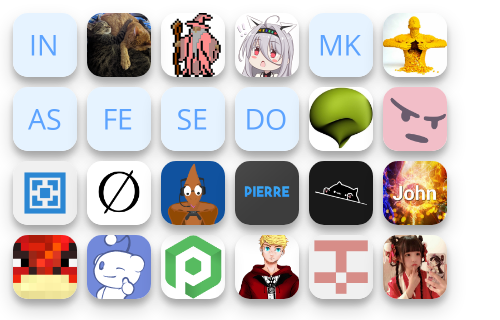
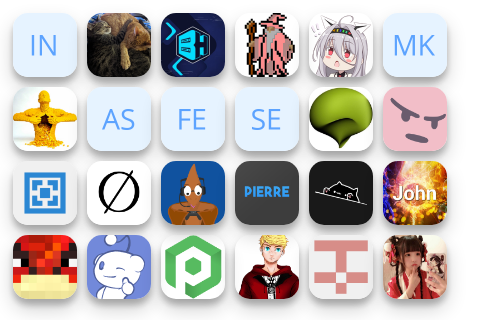
Sponsor Update

diff --git a/sponsors.html b/sponsors.html
@@ -1,7 +1,7 @@
 <html lang="en" style="height: 320px;width: 500px">
     <body>
     <ul style="margin: 0;padding: 0;list-style: none;">
-        <li style="display: inline"><img src='https://images.opencollective.com/incognito-6605083f/avatar.png' alt='Incognito' title='Incognito' onerror='this.src="https://opencollective.com/static/images/default-guest-logo.svg"' style="height: 64px;width: 64px;margin: 5px;border-radius: 15px;box-shadow: 0 10px 20px rgba(0,0,0,0.19), 0 6px 6px rgba(0,0,0,0.23);"/></li><li style="display: inline"><img src='https://images.opencollective.com/kyle-wood/57ef452/avatar.png' alt='Kyle Wood' title='Kyle Wood' onerror='this.src="https://opencollective.com/static/images/default-guest-logo.svg"' style="height: 64px;width: 64px;margin: 5px;border-radius: 15px;box-shadow: 0 10px 20px rgba(0,0,0,0.19), 0 6px 6px rgba(0,0,0,0.23);"/></li><li style="display: inline"><img src='https://images.opencollective.com/notmyfault/8026388/avatar.png' alt='NotMyFault' title='NotMyFault' onerror='this.src="https://opencollective.com/static/images/default-guest-logo.svg"' style="height: 64px;width: 64px;margin: 5px;border-radius: 15px;box-shadow: 0 10px 20px rgba(0,0,0,0.19), 0 6px 6px rgba(0,0,0,0.23);"/></li><li style="display: inline"><img src='https://images.opencollective.com/paper-chan/21d649c/avatar.png' alt='Paper Chan' title='Paper Chan' onerror='this.src="https://opencollective.com/static/images/default-guest-logo.svg"' style="height: 64px;width: 64px;margin: 5px;border-radius: 15px;box-shadow: 0 10px 20px rgba(0,0,0,0.19), 0 6px 6px rgba(0,0,0,0.23);"/></li><li style="display: inline"><img src='https://images.opencollective.com/guest-e5424b5d/avatar.png' alt='Max Klug' title='Max Klug' onerror='this.src="https://opencollective.com/static/images/default-guest-logo.svg"' style="height: 64px;width: 64px;margin: 5px;border-radius: 15px;box-shadow: 0 10px 20px rgba(0,0,0,0.19), 0 6px 6px rgba(0,0,0,0.23);"/></li><li style="display: inline"><img src='https://images.opencollective.com/minidigger/d330b74/avatar.png' alt='MiniDigger | Martin' title='MiniDigger | Martin' onerror='this.src="https://opencollective.com/static/images/default-guest-logo.svg"' style="height: 64px;width: 64px;margin: 5px;border-radius: 15px;box-shadow: 0 10px 20px rgba(0,0,0,0.19), 0 6px 6px rgba(0,0,0,0.23);"/></li><li style="display: inline"><img src='https://images.opencollective.com/andrew-steinborn/avatar.png' alt='Andrew Steinborn' title='Andrew Steinborn' onerror='this.src="https://opencollective.com/static/images/default-guest-logo.svg"' style="height: 64px;width: 64px;margin: 5px;border-radius: 15px;box-shadow: 0 10px 20px rgba(0,0,0,0.19), 0 6px 6px rgba(0,0,0,0.23);"/></li><li style="display: inline"><img src='https://images.opencollective.com/guest-75cfb38d/avatar.png' alt='fergydanny' title='fergydanny' onerror='this.src="https://opencollective.com/static/images/default-guest-logo.svg"' style="height: 64px;width: 64px;margin: 5px;border-radius: 15px;box-shadow: 0 10px 20px rgba(0,0,0,0.19), 0 6px 6px rgba(0,0,0,0.23);"/></li><li style="display: inline"><img src='https://images.opencollective.com/guest-fb82f199/avatar.png' alt='Selamderen' title='Selamderen' onerror='this.src="https://opencollective.com/static/images/default-guest-logo.svg"' style="height: 64px;width: 64px;margin: 5px;border-radius: 15px;box-shadow: 0 10px 20px rgba(0,0,0,0.19), 0 6px 6px rgba(0,0,0,0.23);"/></li><li style="display: inline"><img src='https://images.opencollective.com/guest-0d13e05a/avatar.png' alt='Dragonis Omega' title='Dragonis Omega' onerror='this.src="https://opencollective.com/static/images/default-guest-logo.svg"' style="height: 64px;width: 64px;margin: 5px;border-radius: 15px;box-shadow: 0 10px 20px rgba(0,0,0,0.19), 0 6px 6px rgba(0,0,0,0.23);"/></li><li style="display: inline"><img src='https://avatars.githubusercontent.com/u/181668?v=4' alt='mbax' title='mbax' onerror='this.src="https://opencollective.com/static/images/default-guest-logo.svg"' style="height: 64px;width: 64px;margin: 5px;border-radius: 15px;box-shadow: 0 10px 20px rgba(0,0,0,0.19), 0 6px 6px rgba(0,0,0,0.23);"/></li><li style="display: inline"><img src='https://avatars.githubusercontent.com/u/7191851?v=4' alt='sweepyoface' title='sweepyoface' onerror='this.src="https://opencollective.com/static/images/default-guest-logo.svg"' style="height: 64px;width: 64px;margin: 5px;border-radius: 15px;box-shadow: 0 10px 20px rgba(0,0,0,0.19), 0 6px 6px rgba(0,0,0,0.23);"/></li><li style="display: inline"><img src='https://avatars.githubusercontent.com/u/10004025?v=4' alt='aternosorg' title='aternosorg' onerror='this.src="https://opencollective.com/static/images/default-guest-logo.svg"' style="height: 64px;width: 64px;margin: 5px;border-radius: 15px;box-shadow: 0 10px 20px rgba(0,0,0,0.19), 0 6px 6px rgba(0,0,0,0.23);"/></li><li style="display: inline"><img src='https://avatars.githubusercontent.com/u/13875753?u=6e3a6da4e2af646471f846dc618c251b00b58d9c' alt='LMBishop' title='LMBishop' onerror='this.src="https://opencollective.com/static/images/default-guest-logo.svg"' style="height: 64px;width: 64px;margin: 5px;border-radius: 15px;box-shadow: 0 10px 20px rgba(0,0,0,0.19), 0 6px 6px rgba(0,0,0,0.23);"/></li><li style="display: inline"><img src='https://avatars.githubusercontent.com/u/16179146?v=4' alt='pterodactyl' title='pterodactyl' onerror='this.src="https://opencollective.com/static/images/default-guest-logo.svg"' style="height: 64px;width: 64px;margin: 5px;border-radius: 15px;box-shadow: 0 10px 20px rgba(0,0,0,0.19), 0 6px 6px rgba(0,0,0,0.23);"/></li><li style="display: inline"><img src='https://avatars.githubusercontent.com/u/27054324?u=bb7337fe6921d0d732fa56b4089366e721987ef1' alt='PierreSchwang' title='PierreSchwang' onerror='this.src="https://opencollective.com/static/images/default-guest-logo.svg"' style="height: 64px;width: 64px;margin: 5px;border-radius: 15px;box-shadow: 0 10px 20px rgba(0,0,0,0.19), 0 6px 6px rgba(0,0,0,0.23);"/></li><li style="display: inline"><img src='https://avatars.githubusercontent.com/u/28601081?u=4490f74736eb93cb08bf34b07b82a02677c0bcf7' alt='clrxbl' title='clrxbl' onerror='this.src="https://opencollective.com/static/images/default-guest-logo.svg"' style="height: 64px;width: 64px;margin: 5px;border-radius: 15px;box-shadow: 0 10px 20px rgba(0,0,0,0.19), 0 6px 6px rgba(0,0,0,0.23);"/></li><li style="display: inline"><img src='https://avatars.githubusercontent.com/u/28821789?v=4' alt='J0ddy' title='J0ddy' onerror='this.src="https://opencollective.com/static/images/default-guest-logo.svg"' style="height: 64px;width: 64px;margin: 5px;border-radius: 15px;box-shadow: 0 10px 20px rgba(0,0,0,0.19), 0 6px 6px rgba(0,0,0,0.23);"/></li><li style="display: inline"><img src='https://avatars.githubusercontent.com/u/42840288?u=a5c905371d28210544d8c8bb2ec8ec71f5fa8f57' alt='redbau' title='redbau' onerror='this.src="https://opencollective.com/static/images/default-guest-logo.svg"' style="height: 64px;width: 64px;margin: 5px;border-radius: 15px;box-shadow: 0 10px 20px rgba(0,0,0,0.19), 0 6px 6px rgba(0,0,0,0.23);"/></li><li style="display: inline"><img src='https://avatars.githubusercontent.com/u/44026893?u=1aa282d38edd1262d618ee4ec268cbf1c922f5b9' alt='NoahvdAa' title='NoahvdAa' onerror='this.src="https://opencollective.com/static/images/default-guest-logo.svg"' style="height: 64px;width: 64px;margin: 5px;border-radius: 15px;box-shadow: 0 10px 20px rgba(0,0,0,0.19), 0 6px 6px rgba(0,0,0,0.23);"/></li><li style="display: inline"><img src='https://avatars.githubusercontent.com/u/53379531?v=4' alt='pebblehost' title='pebblehost' onerror='this.src="https://opencollective.com/static/images/default-guest-logo.svg"' style="height: 64px;width: 64px;margin: 5px;border-radius: 15px;box-shadow: 0 10px 20px rgba(0,0,0,0.19), 0 6px 6px rgba(0,0,0,0.23);"/></li><li style="display: inline"><img src='https://avatars.githubusercontent.com/u/59731738?u=20b60f5cf11f16f22da954a1fb17285229ed96c3' alt='otDan' title='otDan' onerror='this.src="https://opencollective.com/static/images/default-guest-logo.svg"' style="height: 64px;width: 64px;margin: 5px;border-radius: 15px;box-shadow: 0 10px 20px rgba(0,0,0,0.19), 0 6px 6px rgba(0,0,0,0.23);"/></li><li style="display: inline"><img src='https://avatars.githubusercontent.com/u/65355670?v=4' alt='BeastyBoo' title='BeastyBoo' onerror='this.src="https://opencollective.com/static/images/default-guest-logo.svg"' style="height: 64px;width: 64px;margin: 5px;border-radius: 15px;box-shadow: 0 10px 20px rgba(0,0,0,0.19), 0 6px 6px rgba(0,0,0,0.23);"/></li><li style="display: inline"><img src='https://avatars.githubusercontent.com/u/91187349?u=c1ea640980100674bbc9719d04594c404b5dde51' alt='First-Dream' title='First-Dream' onerror='this.src="https://opencollective.com/static/images/default-guest-logo.svg"' style="height: 64px;width: 64px;margin: 5px;border-radius: 15px;box-shadow: 0 10px 20px rgba(0,0,0,0.19), 0 6px 6px rgba(0,0,0,0.23);"/></li>
+        <li style="display: inline"><img src='https://images.opencollective.com/incognito-6605083f/avatar.png' alt='Incognito' title='Incognito' onerror='this.src="https://opencollective.com/static/images/default-guest-logo.svg"' style="height: 64px;width: 64px;margin: 5px;border-radius: 15px;box-shadow: 0 10px 20px rgba(0,0,0,0.19), 0 6px 6px rgba(0,0,0,0.23);"/></li><li style="display: inline"><img src='https://images.opencollective.com/kyle-wood/57ef452/avatar.png' alt='Kyle Wood' title='Kyle Wood' onerror='this.src="https://opencollective.com/static/images/default-guest-logo.svg"' style="height: 64px;width: 64px;margin: 5px;border-radius: 15px;box-shadow: 0 10px 20px rgba(0,0,0,0.19), 0 6px 6px rgba(0,0,0,0.23);"/></li><li style="display: inline"><img src='https://images.opencollective.com/bisecthosting/a176793/logo.png' alt='BisectHosting' title='BisectHosting' onerror='this.src="https://opencollective.com/static/images/default-guest-logo.svg"' style="height: 64px;width: 64px;margin: 5px;border-radius: 15px;box-shadow: 0 10px 20px rgba(0,0,0,0.19), 0 6px 6px rgba(0,0,0,0.23);"/></li><li style="display: inline"><img src='https://images.opencollective.com/notmyfault/8026388/avatar.png' alt='NotMyFault' title='NotMyFault' onerror='this.src="https://opencollective.com/static/images/default-guest-logo.svg"' style="height: 64px;width: 64px;margin: 5px;border-radius: 15px;box-shadow: 0 10px 20px rgba(0,0,0,0.19), 0 6px 6px rgba(0,0,0,0.23);"/></li><li style="display: inline"><img src='https://images.opencollective.com/paper-chan/21d649c/avatar.png' alt='Paper Chan' title='Paper Chan' onerror='this.src="https://opencollective.com/static/images/default-guest-logo.svg"' style="height: 64px;width: 64px;margin: 5px;border-radius: 15px;box-shadow: 0 10px 20px rgba(0,0,0,0.19), 0 6px 6px rgba(0,0,0,0.23);"/></li><li style="display: inline"><img src='https://images.opencollective.com/guest-e5424b5d/avatar.png' alt='Max Klug' title='Max Klug' onerror='this.src="https://opencollective.com/static/images/default-guest-logo.svg"' style="height: 64px;width: 64px;margin: 5px;border-radius: 15px;box-shadow: 0 10px 20px rgba(0,0,0,0.19), 0 6px 6px rgba(0,0,0,0.23);"/></li><li style="display: inline"><img src='https://images.opencollective.com/minidigger/d330b74/avatar.png' alt='MiniDigger | Martin' title='MiniDigger | Martin' onerror='this.src="https://opencollective.com/static/images/default-guest-logo.svg"' style="height: 64px;width: 64px;margin: 5px;border-radius: 15px;box-shadow: 0 10px 20px rgba(0,0,0,0.19), 0 6px 6px rgba(0,0,0,0.23);"/></li><li style="display: inline"><img src='https://images.opencollective.com/andrew-steinborn/avatar.png' alt='Andrew Steinborn' title='Andrew Steinborn' onerror='this.src="https://opencollective.com/static/images/default-guest-logo.svg"' style="height: 64px;width: 64px;margin: 5px;border-radius: 15px;box-shadow: 0 10px 20px rgba(0,0,0,0.19), 0 6px 6px rgba(0,0,0,0.23);"/></li><li style="display: inline"><img src='https://images.opencollective.com/guest-75cfb38d/avatar.png' alt='fergydanny' title='fergydanny' onerror='this.src="https://opencollective.com/static/images/default-guest-logo.svg"' style="height: 64px;width: 64px;margin: 5px;border-radius: 15px;box-shadow: 0 10px 20px rgba(0,0,0,0.19), 0 6px 6px rgba(0,0,0,0.23);"/></li><li style="display: inline"><img src='https://images.opencollective.com/guest-fb82f199/avatar.png' alt='Selamderen' title='Selamderen' onerror='this.src="https://opencollective.com/static/images/default-guest-logo.svg"' style="height: 64px;width: 64px;margin: 5px;border-radius: 15px;box-shadow: 0 10px 20px rgba(0,0,0,0.19), 0 6px 6px rgba(0,0,0,0.23);"/></li><li style="display: inline"><img src='https://avatars.githubusercontent.com/u/181668?v=4' alt='mbax' title='mbax' onerror='this.src="https://opencollective.com/static/images/default-guest-logo.svg"' style="height: 64px;width: 64px;margin: 5px;border-radius: 15px;box-shadow: 0 10px 20px rgba(0,0,0,0.19), 0 6px 6px rgba(0,0,0,0.23);"/></li><li style="display: inline"><img src='https://avatars.githubusercontent.com/u/7191851?v=4' alt='sweepyoface' title='sweepyoface' onerror='this.src="https://opencollective.com/static/images/default-guest-logo.svg"' style="height: 64px;width: 64px;margin: 5px;border-radius: 15px;box-shadow: 0 10px 20px rgba(0,0,0,0.19), 0 6px 6px rgba(0,0,0,0.23);"/></li><li style="display: inline"><img src='https://avatars.githubusercontent.com/u/10004025?v=4' alt='aternosorg' title='aternosorg' onerror='this.src="https://opencollective.com/static/images/default-guest-logo.svg"' style="height: 64px;width: 64px;margin: 5px;border-radius: 15px;box-shadow: 0 10px 20px rgba(0,0,0,0.19), 0 6px 6px rgba(0,0,0,0.23);"/></li><li style="display: inline"><img src='https://avatars.githubusercontent.com/u/13875753?u=6e3a6da4e2af646471f846dc618c251b00b58d9c' alt='LMBishop' title='LMBishop' onerror='this.src="https://opencollective.com/static/images/default-guest-logo.svg"' style="height: 64px;width: 64px;margin: 5px;border-radius: 15px;box-shadow: 0 10px 20px rgba(0,0,0,0.19), 0 6px 6px rgba(0,0,0,0.23);"/></li><li style="display: inline"><img src='https://avatars.githubusercontent.com/u/16179146?v=4' alt='pterodactyl' title='pterodactyl' onerror='this.src="https://opencollective.com/static/images/default-guest-logo.svg"' style="height: 64px;width: 64px;margin: 5px;border-radius: 15px;box-shadow: 0 10px 20px rgba(0,0,0,0.19), 0 6px 6px rgba(0,0,0,0.23);"/></li><li style="display: inline"><img src='https://avatars.githubusercontent.com/u/27054324?u=bb7337fe6921d0d732fa56b4089366e721987ef1' alt='PierreSchwang' title='PierreSchwang' onerror='this.src="https://opencollective.com/static/images/default-guest-logo.svg"' style="height: 64px;width: 64px;margin: 5px;border-radius: 15px;box-shadow: 0 10px 20px rgba(0,0,0,0.19), 0 6px 6px rgba(0,0,0,0.23);"/></li><li style="display: inline"><img src='https://avatars.githubusercontent.com/u/28601081?u=4490f74736eb93cb08bf34b07b82a02677c0bcf7' alt='clrxbl' title='clrxbl' onerror='this.src="https://opencollective.com/static/images/default-guest-logo.svg"' style="height: 64px;width: 64px;margin: 5px;border-radius: 15px;box-shadow: 0 10px 20px rgba(0,0,0,0.19), 0 6px 6px rgba(0,0,0,0.23);"/></li><li style="display: inline"><img src='https://avatars.githubusercontent.com/u/28821789?v=4' alt='J0ddy' title='J0ddy' onerror='this.src="https://opencollective.com/static/images/default-guest-logo.svg"' style="height: 64px;width: 64px;margin: 5px;border-radius: 15px;box-shadow: 0 10px 20px rgba(0,0,0,0.19), 0 6px 6px rgba(0,0,0,0.23);"/></li><li style="display: inline"><img src='https://avatars.githubusercontent.com/u/42840288?u=a5c905371d28210544d8c8bb2ec8ec71f5fa8f57' alt='redbau' title='redbau' onerror='this.src="https://opencollective.com/static/images/default-guest-logo.svg"' style="height: 64px;width: 64px;margin: 5px;border-radius: 15px;box-shadow: 0 10px 20px rgba(0,0,0,0.19), 0 6px 6px rgba(0,0,0,0.23);"/></li><li style="display: inline"><img src='https://avatars.githubusercontent.com/u/44026893?u=1aa282d38edd1262d618ee4ec268cbf1c922f5b9' alt='NoahvdAa' title='NoahvdAa' onerror='this.src="https://opencollective.com/static/images/default-guest-logo.svg"' style="height: 64px;width: 64px;margin: 5px;border-radius: 15px;box-shadow: 0 10px 20px rgba(0,0,0,0.19), 0 6px 6px rgba(0,0,0,0.23);"/></li><li style="display: inline"><img src='https://avatars.githubusercontent.com/u/53379531?v=4' alt='pebblehost' title='pebblehost' onerror='this.src="https://opencollective.com/static/images/default-guest-logo.svg"' style="height: 64px;width: 64px;margin: 5px;border-radius: 15px;box-shadow: 0 10px 20px rgba(0,0,0,0.19), 0 6px 6px rgba(0,0,0,0.23);"/></li><li style="display: inline"><img src='https://avatars.githubusercontent.com/u/59731738?u=20b60f5cf11f16f22da954a1fb17285229ed96c3' alt='otDan' title='otDan' onerror='this.src="https://opencollective.com/static/images/default-guest-logo.svg"' style="height: 64px;width: 64px;margin: 5px;border-radius: 15px;box-shadow: 0 10px 20px rgba(0,0,0,0.19), 0 6px 6px rgba(0,0,0,0.23);"/></li><li style="display: inline"><img src='https://avatars.githubusercontent.com/u/65355670?v=4' alt='BeastyBoo' title='BeastyBoo' onerror='this.src="https://opencollective.com/static/images/default-guest-logo.svg"' style="height: 64px;width: 64px;margin: 5px;border-radius: 15px;box-shadow: 0 10px 20px rgba(0,0,0,0.19), 0 6px 6px rgba(0,0,0,0.23);"/></li><li style="display: inline"><img src='https://avatars.githubusercontent.com/u/91187349?u=c1ea640980100674bbc9719d04594c404b5dde51' alt='First-Dream' title='First-Dream' onerror='this.src="https://opencollective.com/static/images/default-guest-logo.svg"' style="height: 64px;width: 64px;margin: 5px;border-radius: 15px;box-shadow: 0 10px 20px rgba(0,0,0,0.19), 0 6px 6px rgba(0,0,0,0.23);"/></li>
     </ul>
     </body>
     </html>
